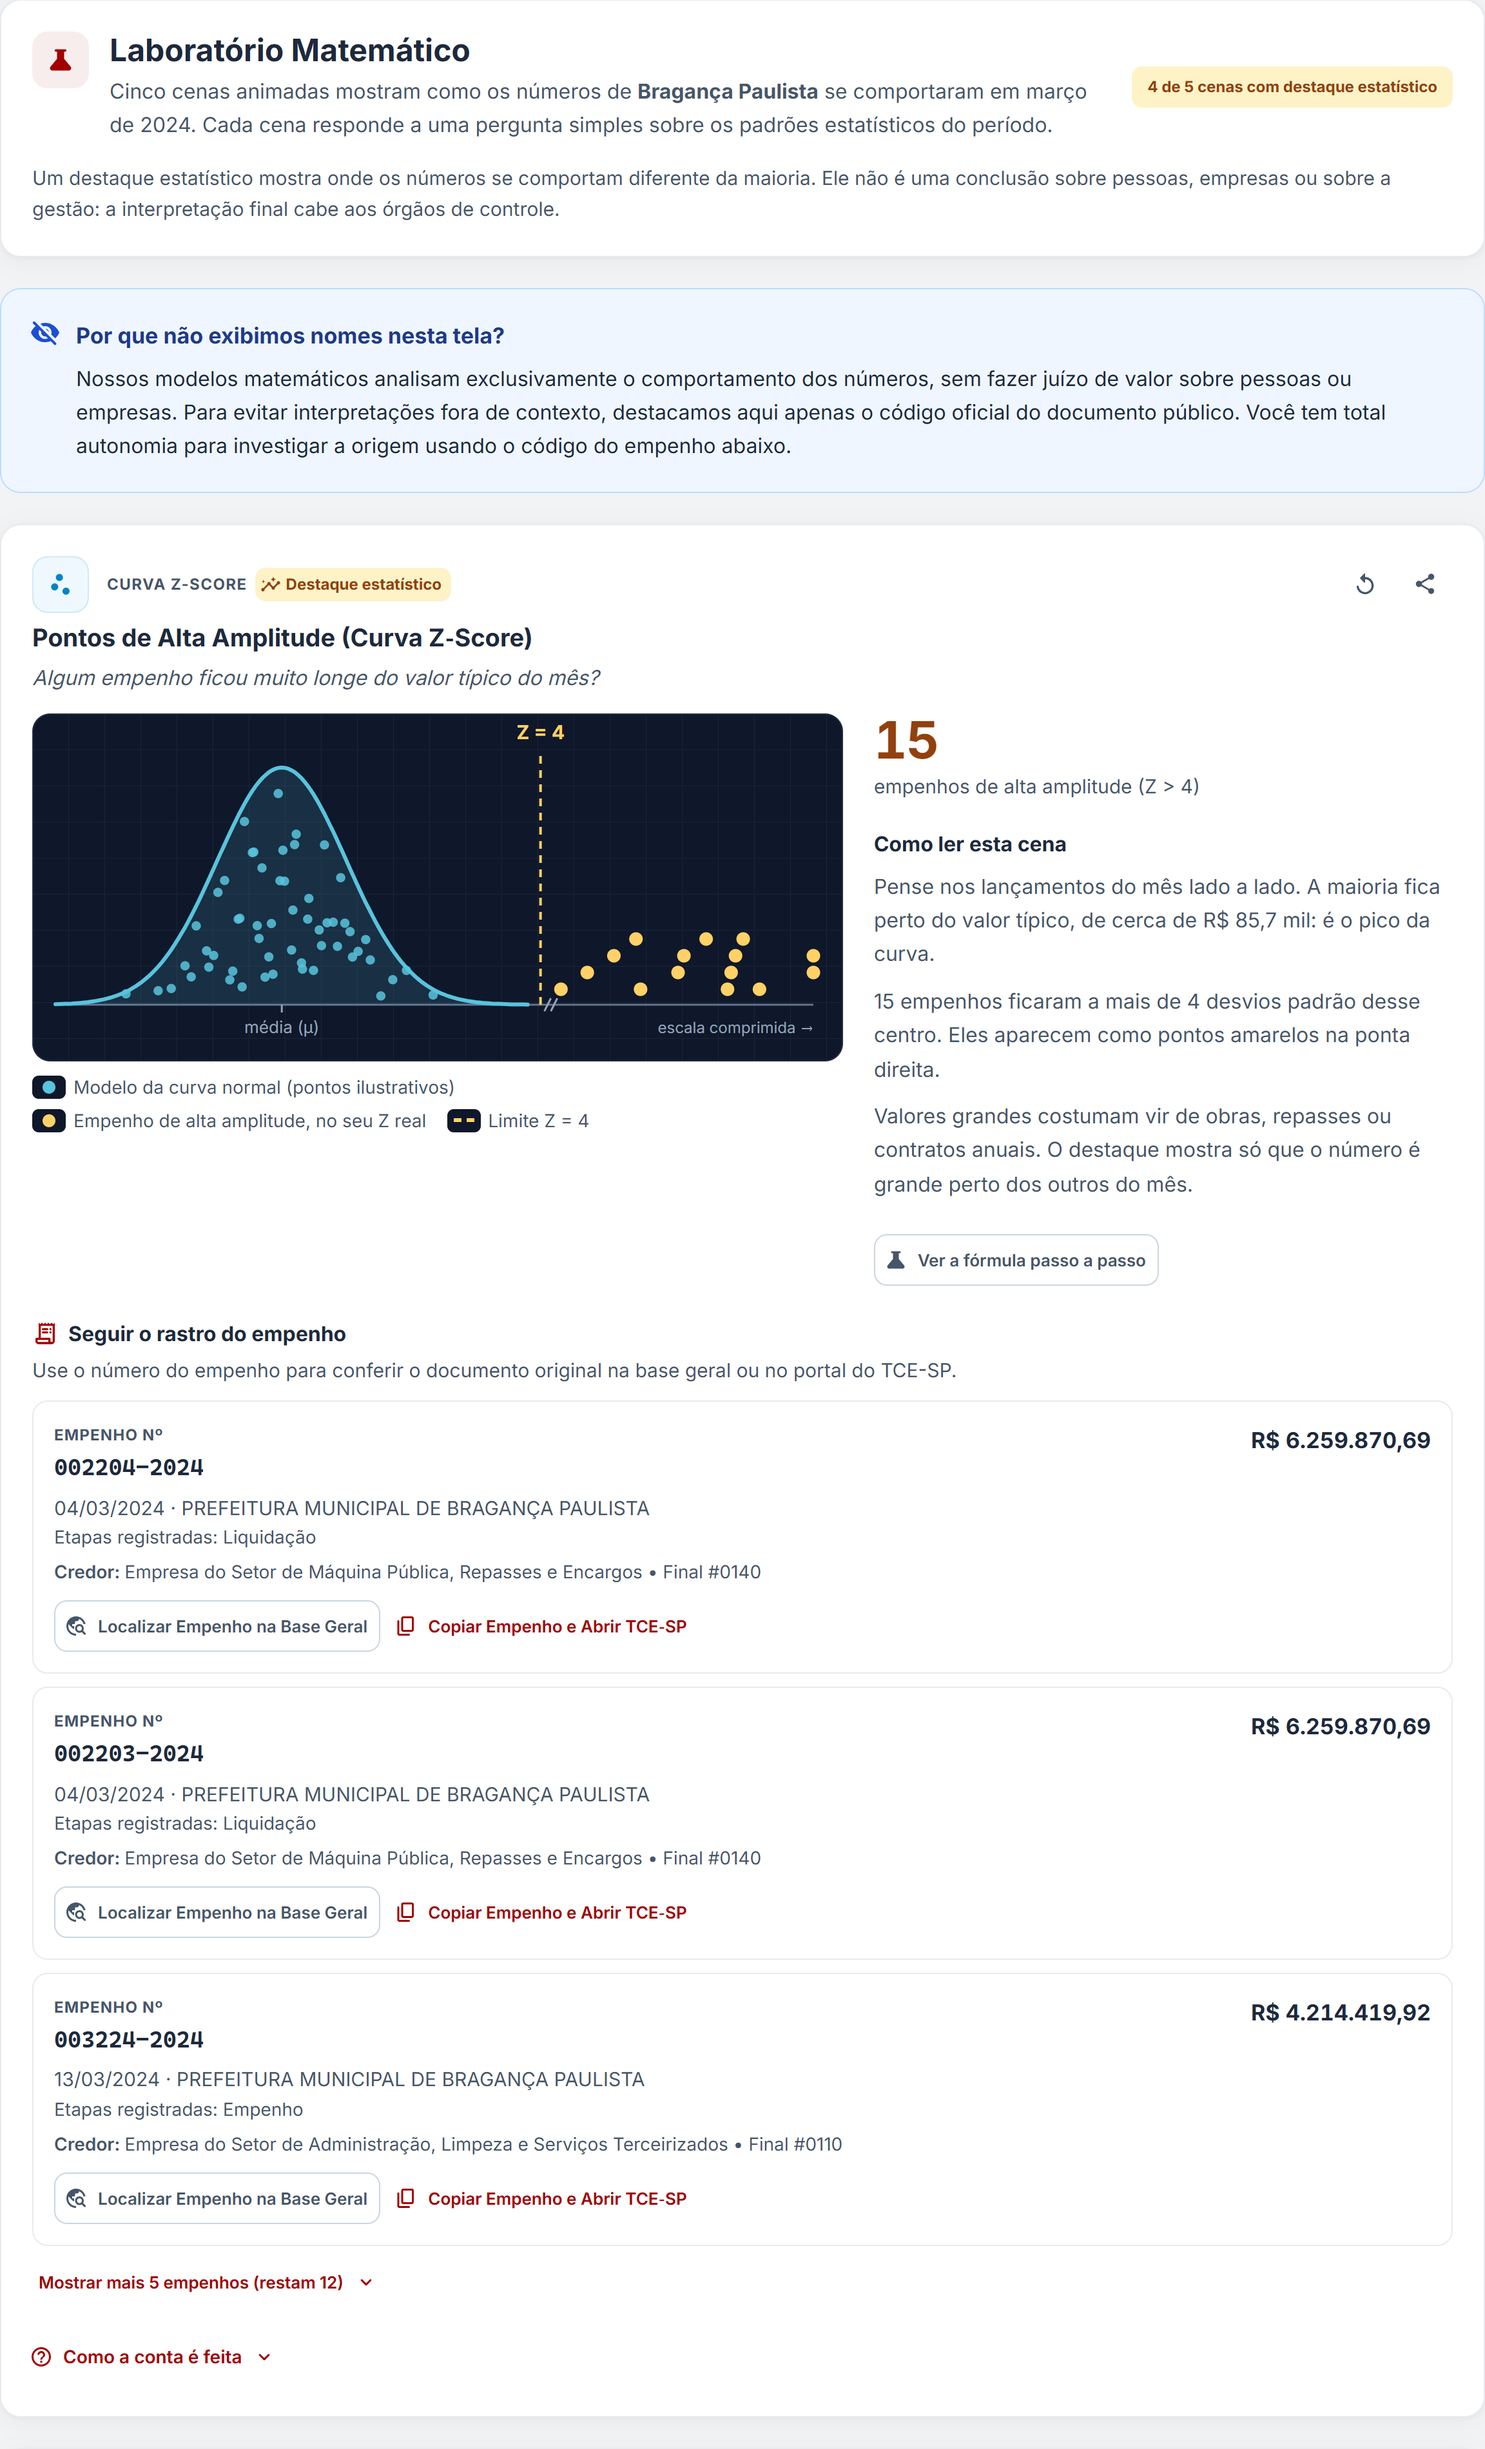
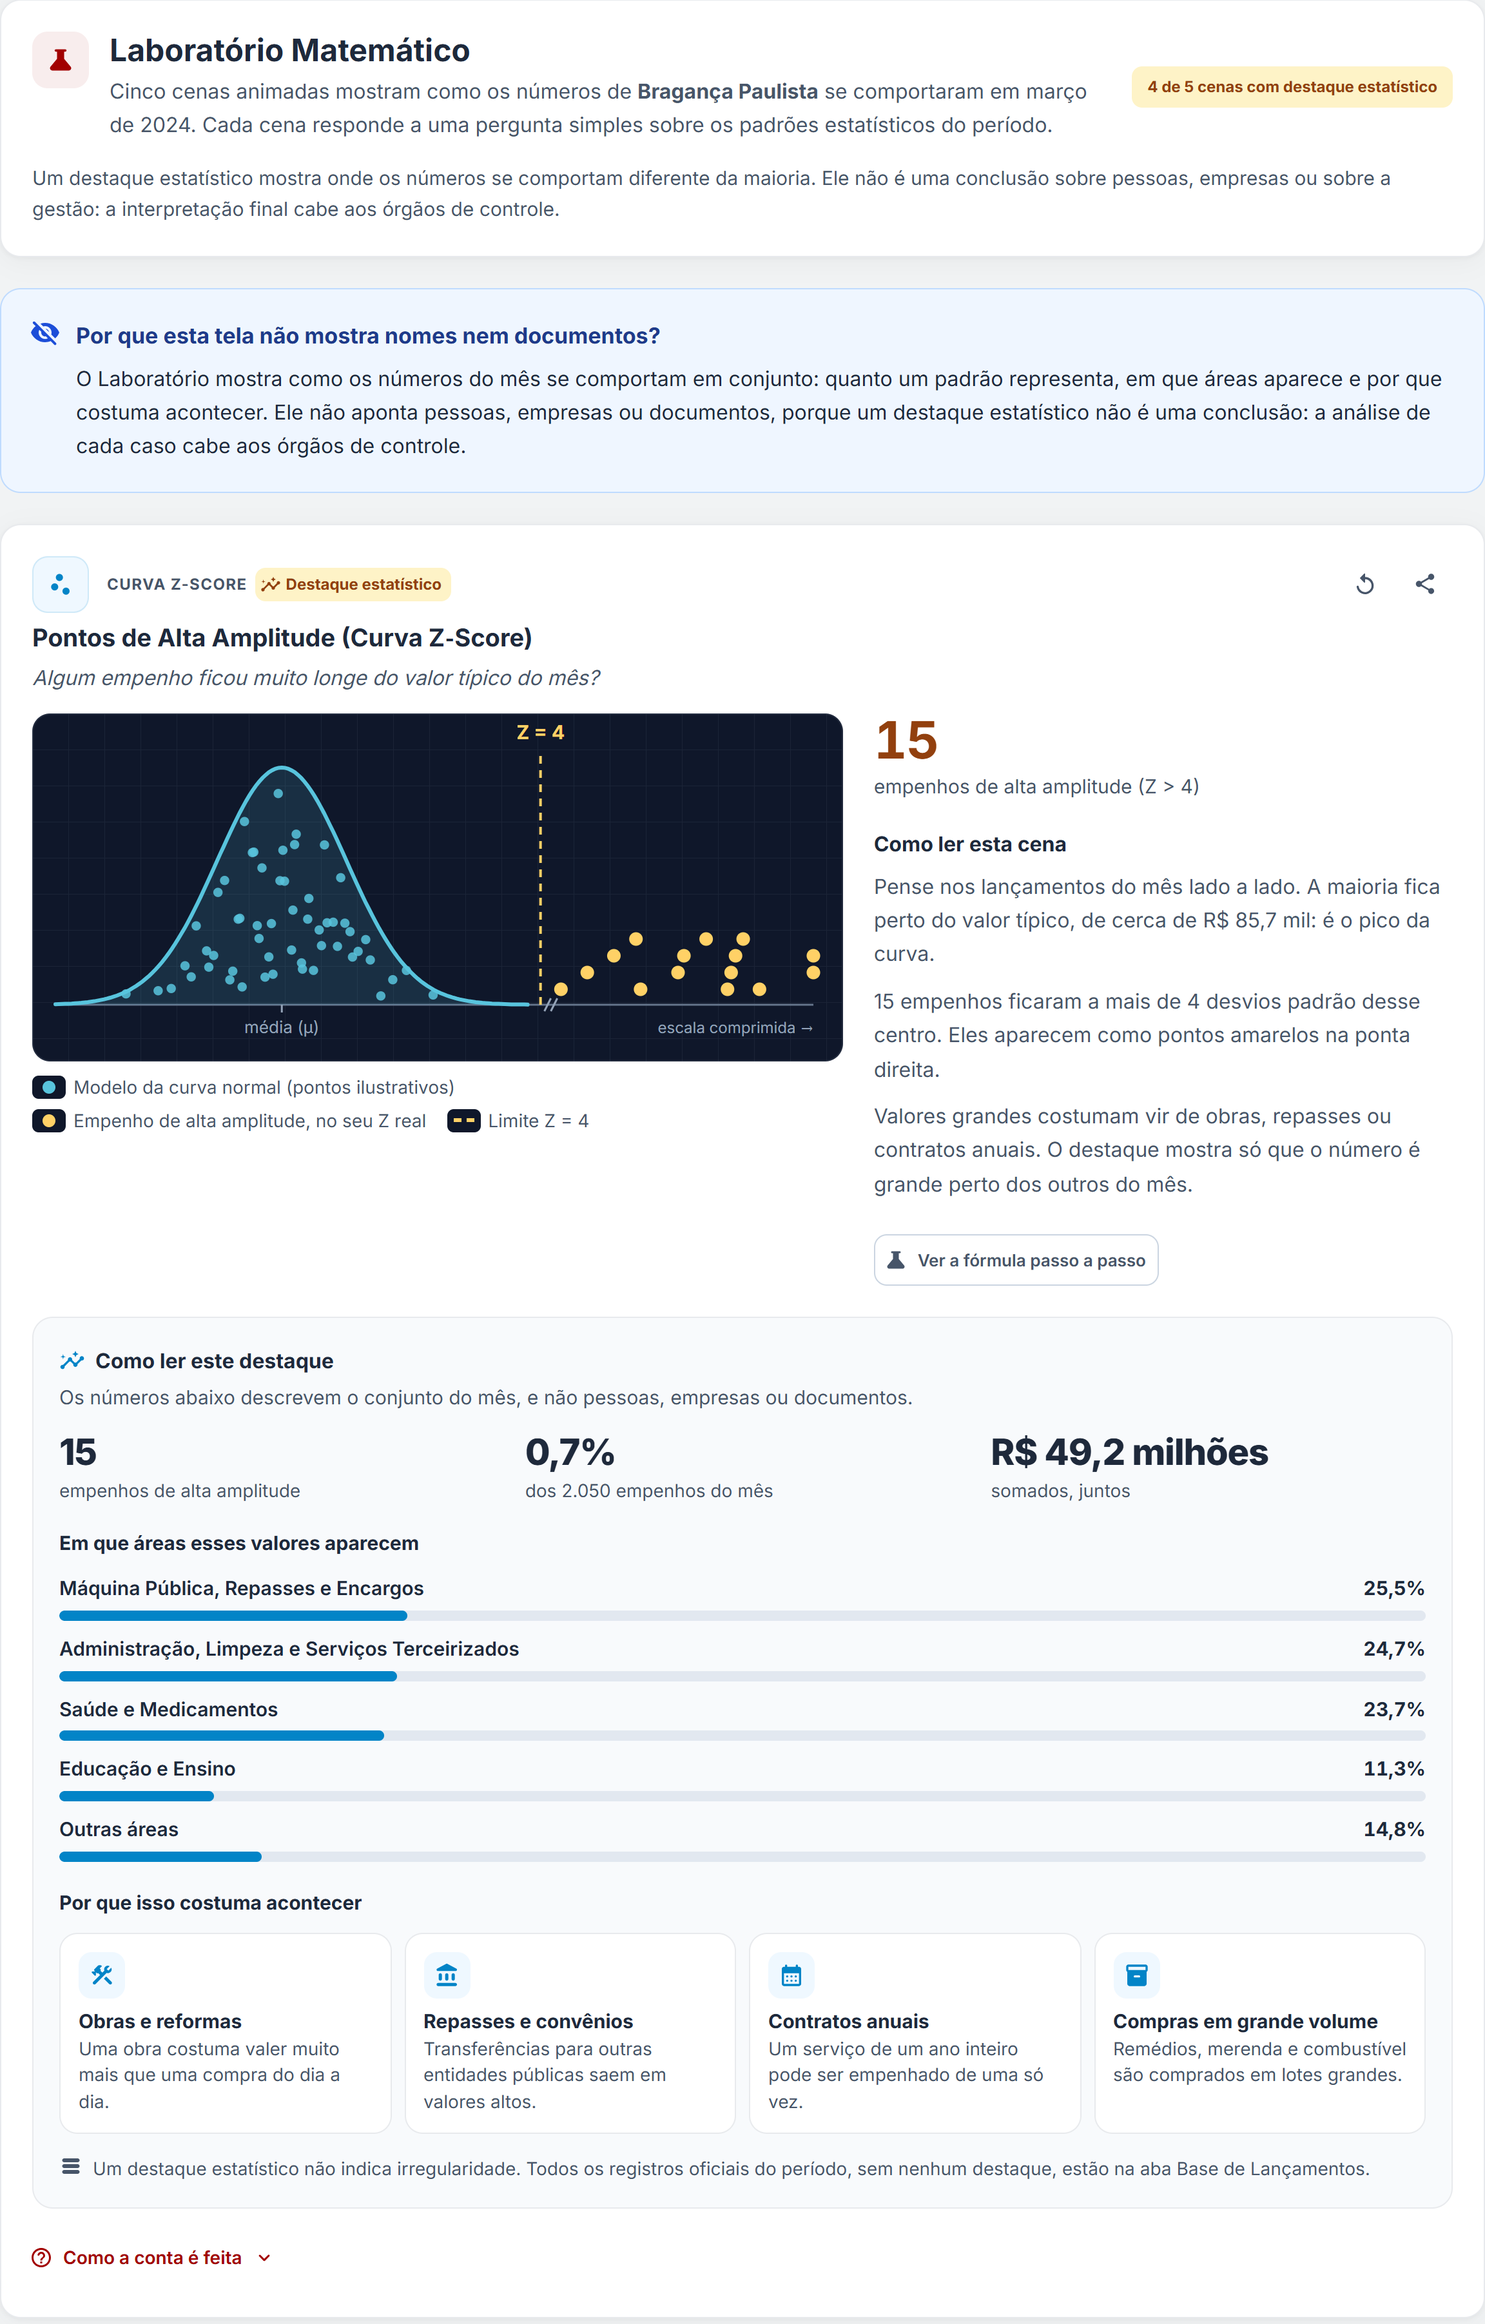
Atualiza README com o novo Laboratório

diff --git a/README.md b/README.md
@@ -52,7 +52,7 @@ O **GovTrace** transforma esse volume de registros em **informação compreensí
 2. aplica **cinco métodos estatísticos** (Z-Score, recorrência de valores, concentração por área, participação dos 5 maiores fornecedores — CR5 — e Lei de Newcomb-Benford);
 3. apresenta os resultados em uma interface em que **o dado é o protagonista** e a explicação em linguagem cidadã fica a um clique de distância.
 
-> ⚖ **Princípio de neutralidade:** o GovTrace não acusa ninguém. Os métodos apontam **destaques estatísticos** (onde os números se comportam diferente da maioria), nunca conclusões jurídicas. No Laboratório Matemático, os credores aparecem só com uma identidade anônima. A interpretação final cabe aos órgãos de controle.
+> ⚖ **Princípio de neutralidade:** o GovTrace não acusa ninguém. Os métodos apontam **destaques estatísticos** (onde os números se comportam diferente da maioria), nunca conclusões jurídicas. O Laboratório Matemático descreve o conjunto do mês e não aponta pessoas, empresas ou documentos. A interpretação final cabe aos órgãos de controle.
 
 ## 🌱 Visão e propósito
 
@@ -71,7 +71,7 @@ Queremos **crescer rápido**. Por isso estamos estruturando a base para receber 
 |---|---|
 | 🏛 **A Cidade** | Total empenhado no mês, o caminho do dinheiro (empenhado, liquidado e pago, sem somar etapas), maior valor único, participação dos 5 maiores fornecedores (CR5) e divisão dos pagamentos por área pública, classificada pela atividade oficial das empresas (CNAE da Receita Federal) |
 | 🔎 **Exploração** | Ranking dos fornecedores pelo valor pago, com busca por nome, filtro por área e painel com os registros de cada um, agrupados por empenho |
-| 🧪 **Laboratório Matemático** | Cinco cenas animadas, uma por método estatístico, com fórmula passo a passo, imagem para compartilhar e o rastro de cada empenho (credores com identidade anônima) |
+| 🧪 **Laboratório Matemático** | Cinco cenas animadas, uma por método estatístico, com fórmula passo a passo, imagem para compartilhar e o bloco "Como ler este destaque": peso do destaque no mês, divisão por área e causas comuns do padrão |
 | 📄 **Base de Lançamentos** | Todos os registros oficiais do período, com busca, filtro e soma por etapa (empenho, liquidação, pagamento, reforço, anulação), ordenação e "empenho em foco" |
 | ⚖ **Comparação** | Duas cidades frente a frente no mesmo período, em um placar com barras espelhadas e explicação de como comparar |
 
@@ -100,7 +100,7 @@ Além disso:
 ![Painel lateral com o caminho do dinheiro e os empenhos de um fornecedor](./docs/assets/04-registros-fornecedor.png)
 
 ### Laboratório Matemático: cenas animadas
-![Laboratório Matemático com a cena da Curva Z-Score e o rastro do empenho](./docs/assets/03-laboratorio.png)
+![Laboratório Matemático com a cena da Curva Z-Score e o bloco Como ler este destaque](./docs/assets/03-laboratorio.png)
 
 ### Base de Lançamentos: empenho em foco
 ![Base de Lançamentos com um empenho em foco e a linha do tempo das etapas](./docs/assets/05-lancamentos.png)
@@ -247,7 +247,7 @@ src/
 ├── componentes/
 │   ├── abaCidade/               # HeroCidade, GraficoDestino (rosca), CartaoConcentracao, áreas
 │   ├── abaExploracao/           # RankingFornecedores, DrawerRegistros, LinhaEtapas
-│   ├── abaLaboratorio/          # PainelLaboratorio, cenas animadas, TrilhaEmpenho, compartilhar
+│   ├── abaLaboratorio/          # PainelLaboratorio, cenas animadas, LeituraDestaque, compartilhar
 │   ├── abaLancamentos/          # TabelaLancamentos (tabela no computador, cartões no celular)
 │   ├── abaComparacao/           # ComparacaoMunicipios (placar A × B)
 │   ├── CarregamentoGovTrace/    # Carregamento animado com o logotipo
@@ -276,7 +276,7 @@ docs/
 - [x] Arquitetura desacoplada (Front React + API Node.js)
 - [x] Cache de sessão e cancelamento de requisições
 - [x] Classificação oficial por atividade econômica (CNAE)
-- [x] Laboratório Matemático com identidade anônima dos credores
+- [x] Laboratório Matemático que descreve padrões sem apontar casos ("Como ler este destaque")
 - [x] Comparação entre municípios e imagem para compartilhar
 - [x] Carregamento sob demanda das partes pesadas (Laboratório e fórmulas)
 - [x] Contagem por etapa, sem somar o mesmo dinheiro mais de uma vez
